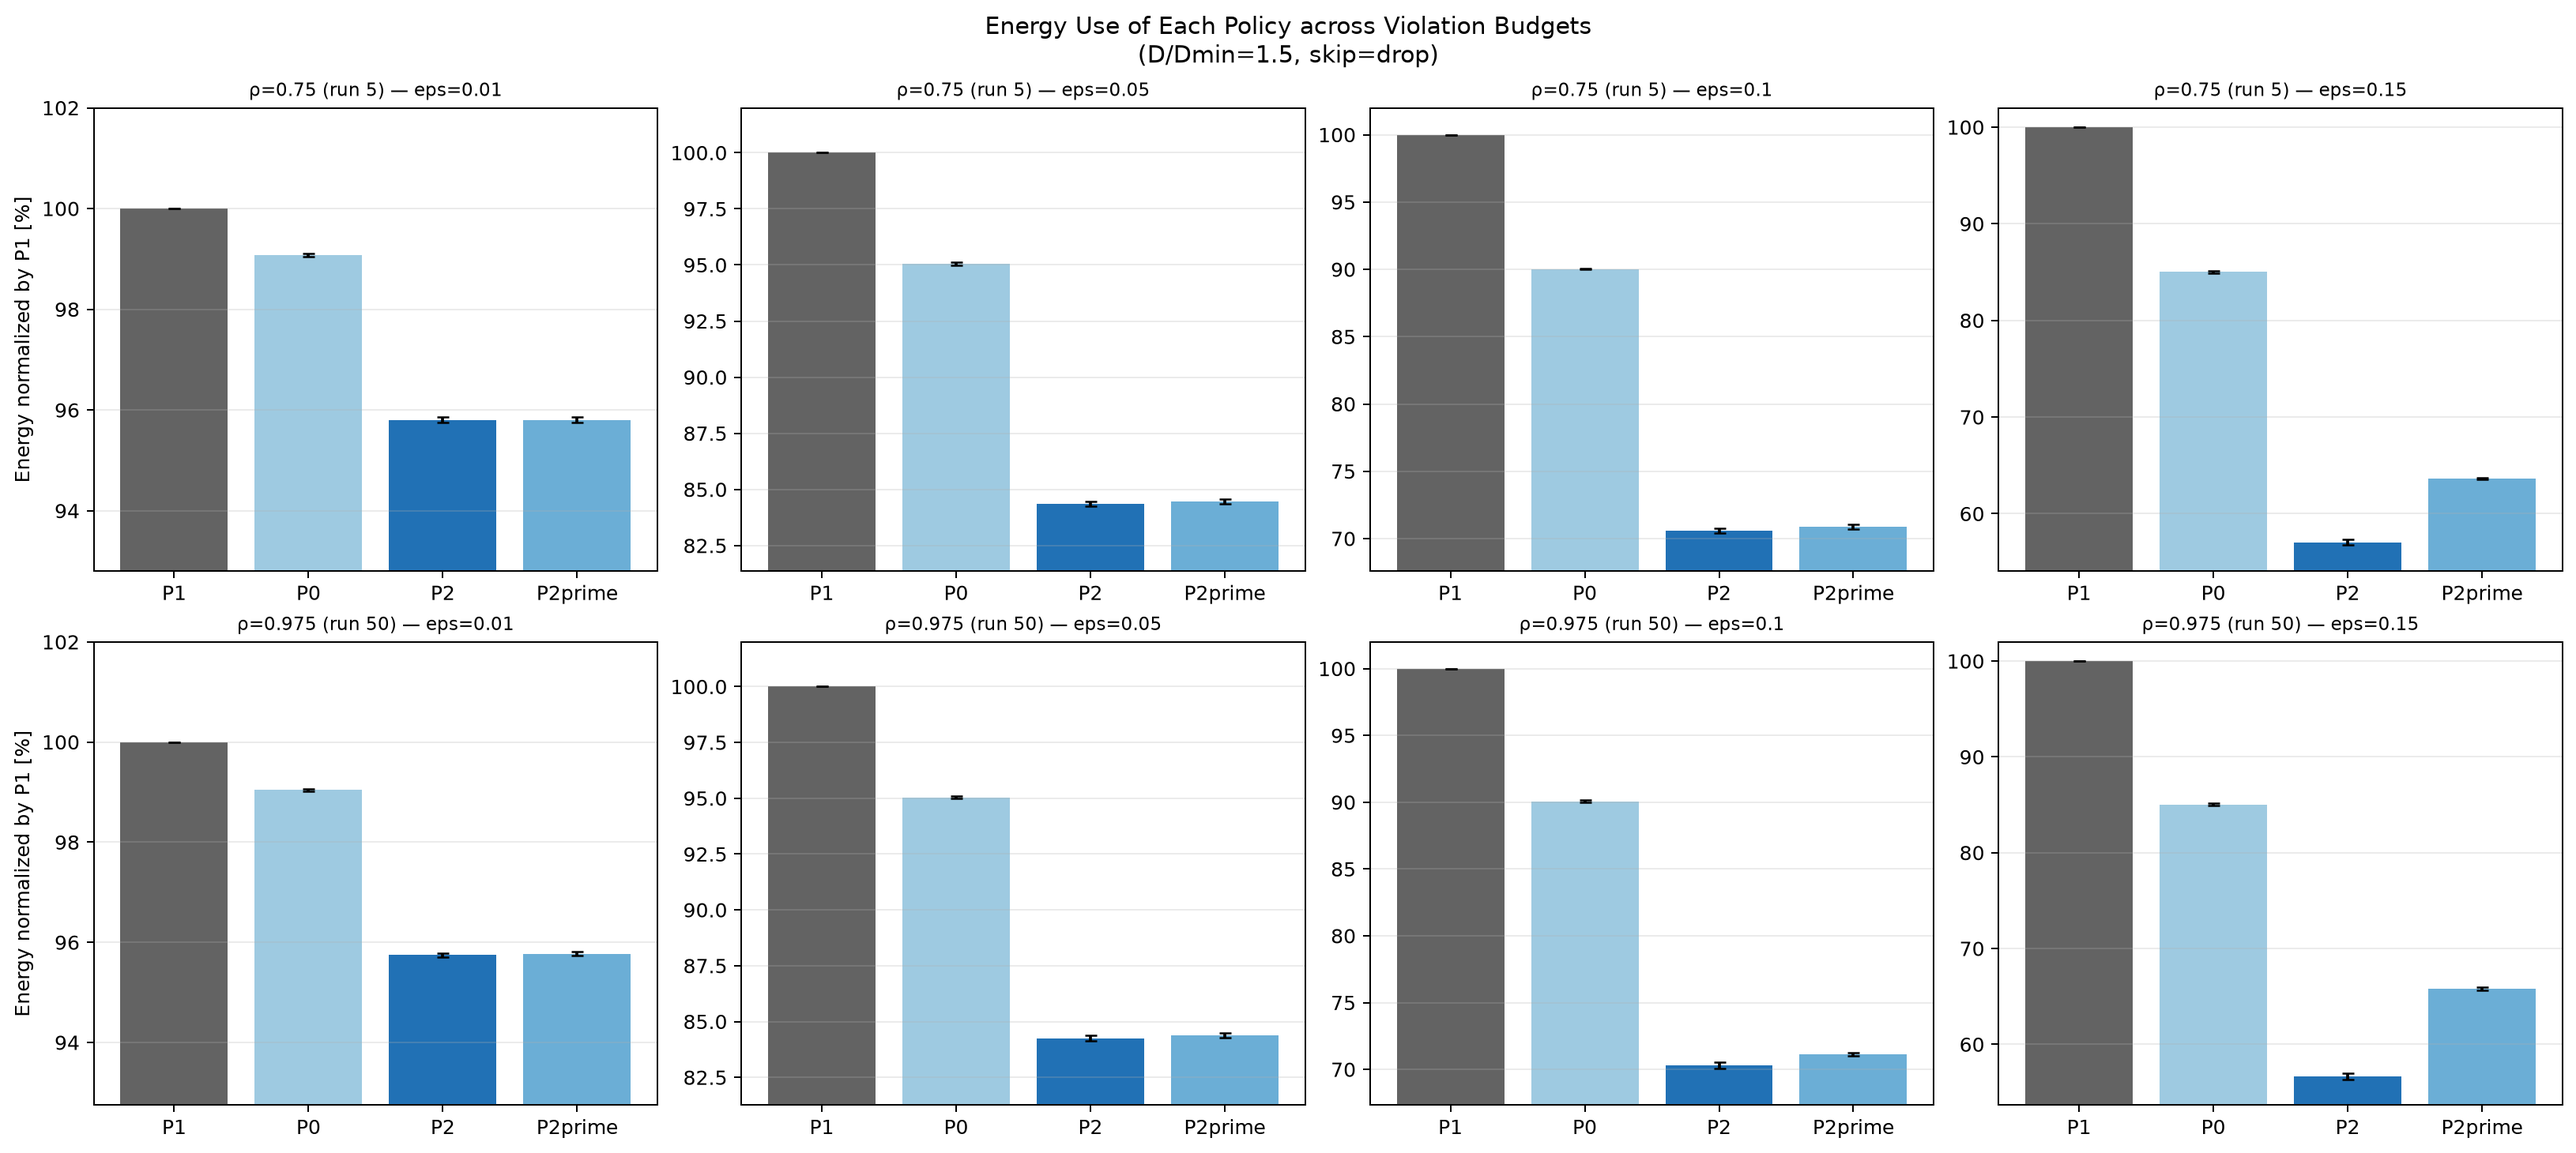
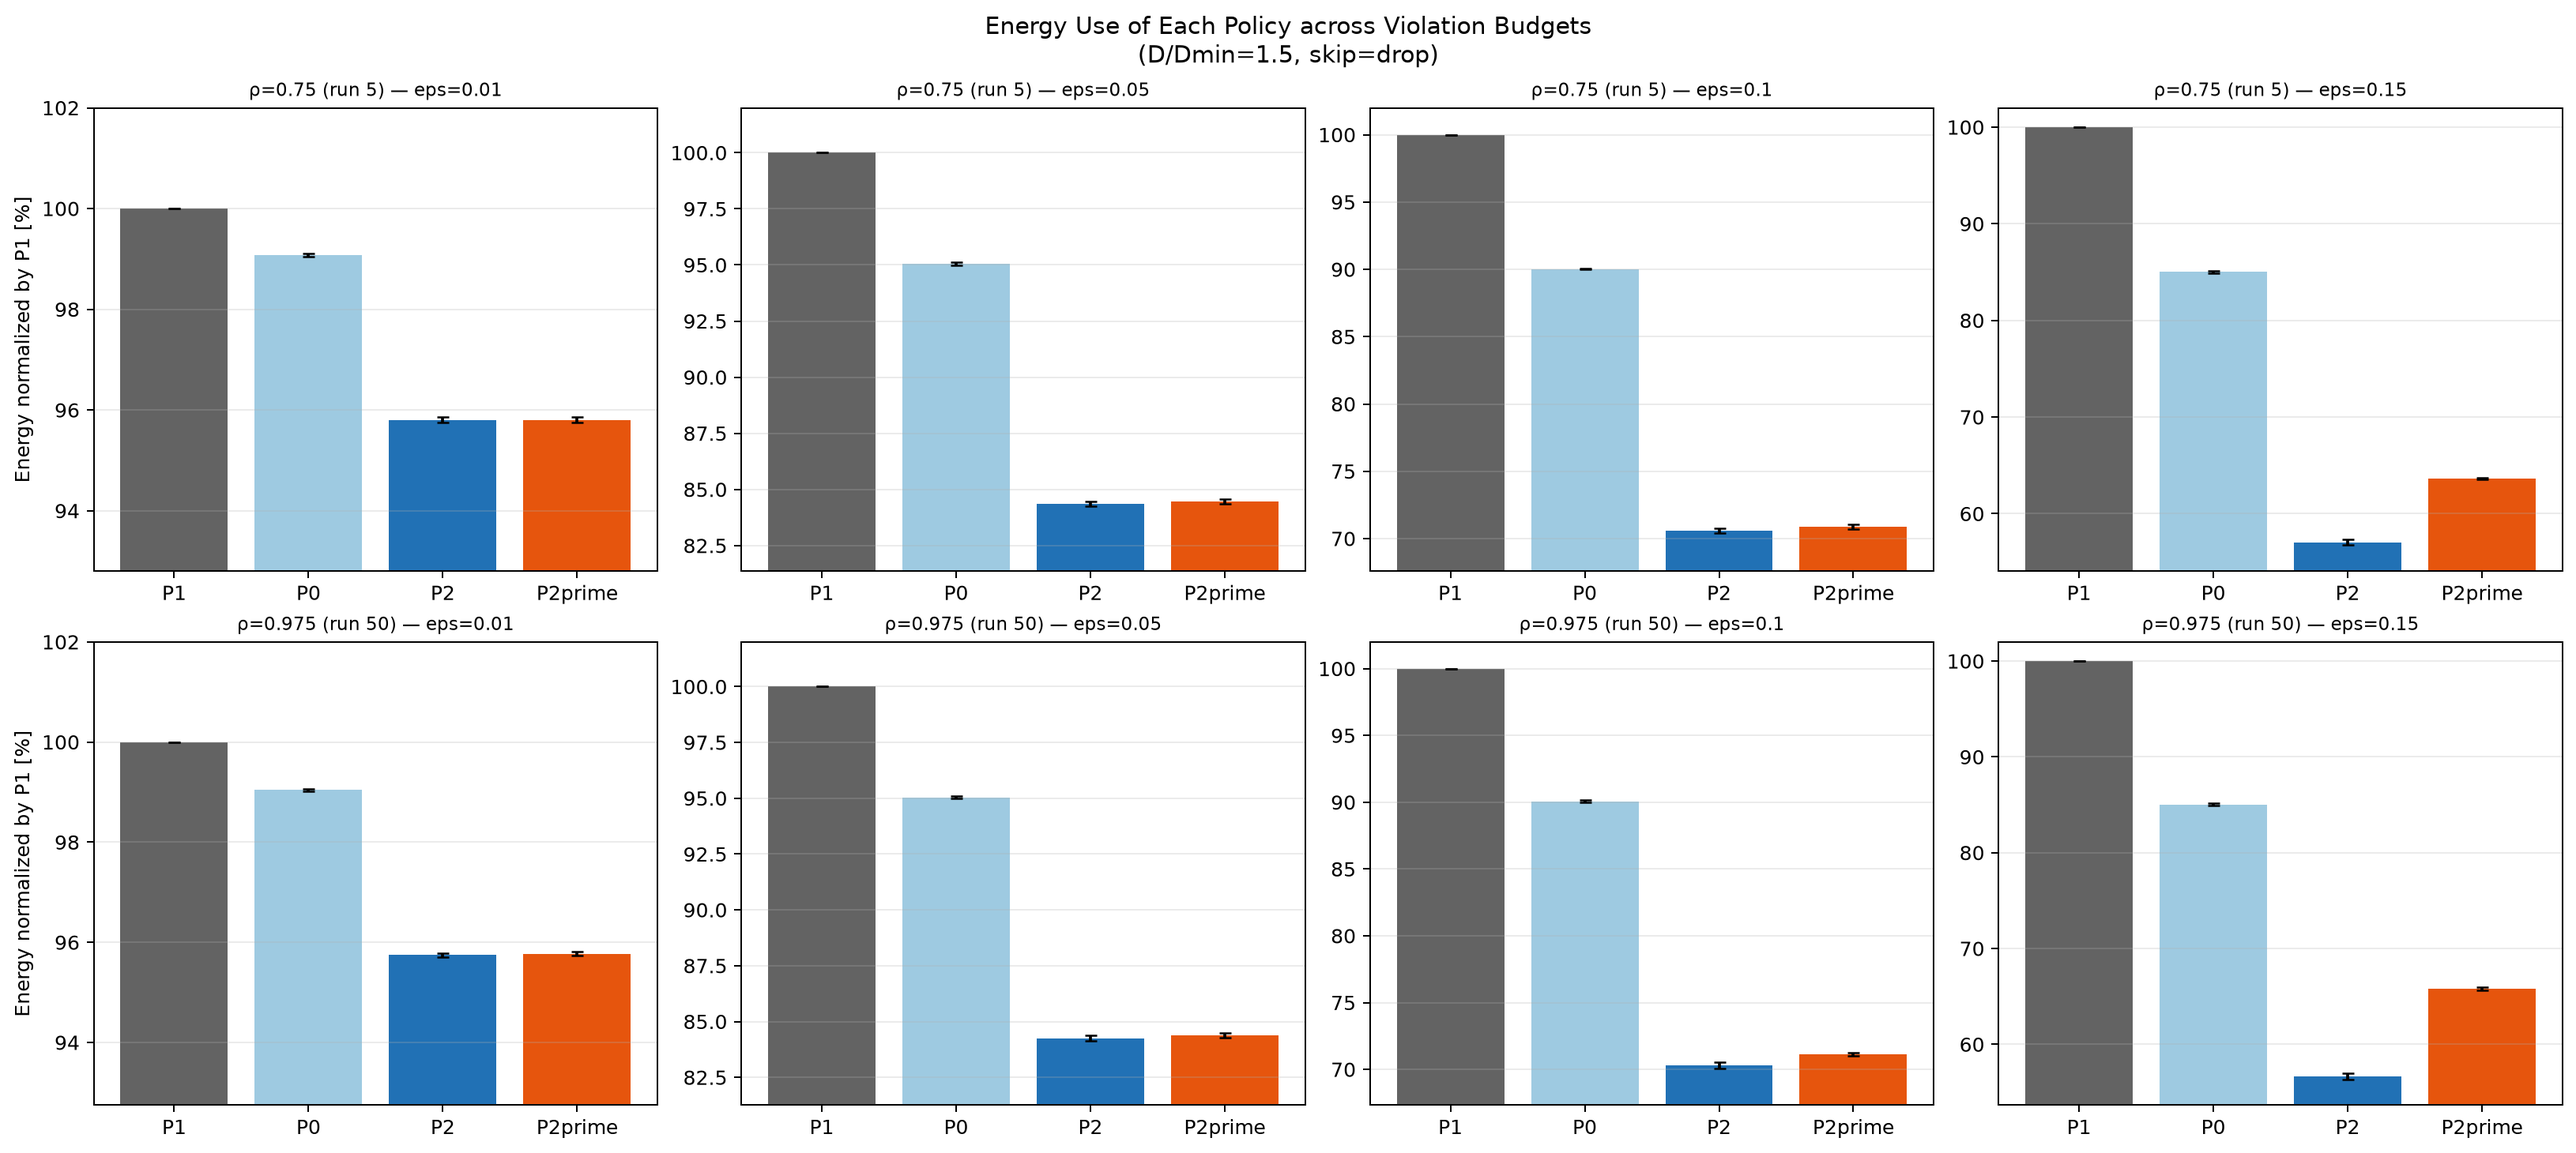
Expand the burstiness figure across epsilon and recolor P2prime

diff --git a/plotting.py b/plotting.py
@@ -13,10 +13,10 @@ import pandas as pd
 
 
 POLICY_COLORS = {
-    "P1": "#636363",
-    "P0": "#9ecae1",
-    "P2": "#2171b5",
-    "P2prime": "#6baed6",
+    "P1": "#636363",       # gray: status quo
+    "P0": "#9ecae1",       # light blue: same budget, random placement
+    "P2": "#2171b5",       # dark blue: same budget, targeted placement
+    "P2prime": "#e6550d",  # orange: differs by constraint, not by placement quality
 }
 RHO_AXIS_LABEL = (
     "Channel state correlation ρ (run = mean bad-state run length, slots)"
@@ -294,35 +294,67 @@ def plot_rho_dependence(
 ) -> None:
     pol = policy_aggregate[
         np.isclose(policy_aggregate["deadline_ratio"], representative_ratio)
-        & np.isclose(policy_aggregate["epsilon"], representative_epsilon)
-        & policy_aggregate["policy"].isin(["P2"])
+        & policy_aggregate["policy"].isin(["P0", "P2", "P2prime"])
     ].sort_values("rho")
 
+    epsilon_values = (0.01, 0.05, 0.1, 0.15)
     for skip_mode, group in pol.groupby("skip_mode"):
-        fig, axes = plt.subplots(1, 2, figsize=(17, 5.5))
-        pos = _ordinal(axes[0], group["rho"])
-        _ordinal(axes[1], group["rho"])
-        for policy, part in group.groupby("policy"):
-            color = POLICY_COLORS[policy]
-            x = [pos[float(value)] for value in part["rho"]]
-            axes[0].errorbar(x, part["max_violation_run_mean"], yerr=part["max_violation_run_std"], marker="o", capsize=3, color=color, label=policy)
-            axes[1].errorbar(x, part["burst_count_ge2_mean"], yerr=part["burst_count_ge2_std"], marker="o", capsize=3, color=color, label=policy)
-        for ax in axes:
-            ax.set_xlabel(RHO_AXIS_LABEL)
-            ax.grid(alpha=0.25)
-            ax.legend()
-        axes[0].set_ylabel("Maximum consecutive violations")
-        axes[1].set_ylabel("Number of violation bursts (length >= 2)")
+        fig, axes = plt.subplots(
+            2,
+            len(epsilon_values),
+            figsize=(22, 9),
+            layout="constrained",
+        )
+        for column_index, epsilon in enumerate(epsilon_values):
+            epsilon_group = group[np.isclose(group["epsilon"], epsilon)]
+            top = axes[0, column_index]
+            bottom = axes[1, column_index]
+            top_pos = _ordinal(top, epsilon_group["rho"])
+            bottom_pos = _ordinal(bottom, epsilon_group["rho"])
+            top.set_xticklabels([])
+            for policy in ("P0", "P2", "P2prime"):
+                part = epsilon_group[epsilon_group["policy"] == policy]
+                color = POLICY_COLORS[policy]
+                top_x = [top_pos[float(value)] for value in part["rho"]]
+                bottom_x = [bottom_pos[float(value)] for value in part["rho"]]
+                top.errorbar(
+                    top_x,
+                    part["max_violation_run_mean"],
+                    yerr=part["max_violation_run_std"],
+                    marker="o",
+                    capsize=3,
+                    color=color,
+                    label=policy,
+                )
+                bottom.errorbar(
+                    bottom_x,
+                    part["burst_count_ge2_mean"],
+                    yerr=part["burst_count_ge2_std"],
+                    marker="o",
+                    capsize=3,
+                    color=color,
+                    label=policy,
+                )
+            top.set_title(f"eps={epsilon:g}")
+            top.grid(alpha=0.25)
+            bottom.grid(alpha=0.25)
+        axes[0, 0].set_ylabel("Maximum consecutive violations")
+        axes[1, 0].set_ylabel("Number of violation bursts (length >= 2)")
+        fig.supxlabel(RHO_AXIS_LABEL)
+        axes[0, 0].legend()
         title = {
             "drop": "Consecutive Violations under Drop",
             "late": "Consecutive Violations under Late Processing",
         }[skip_mode]
         fig.suptitle(
             f"{title}\n"
-            f"(D/Dmin={representative_ratio:g}, eps={representative_epsilon:g}, "
-            f"skip={skip_mode})"
+            f"(D/Dmin={representative_ratio:g}, skip={skip_mode})"
         )
-        _save(fig, output_dir / f"fig_h1b2_burstiness_{skip_mode}.png")
+        _save(
+            fig,
+            output_dir / f"fig_h1b2_burstiness_{skip_mode}.png",
+            tight_layout=False,
+        )
 
     # epsilon=0.15 exceeds pi_B/2 and exposes the P2-P2prime trade-off.
     comp_gap = comparison_aggregate[
